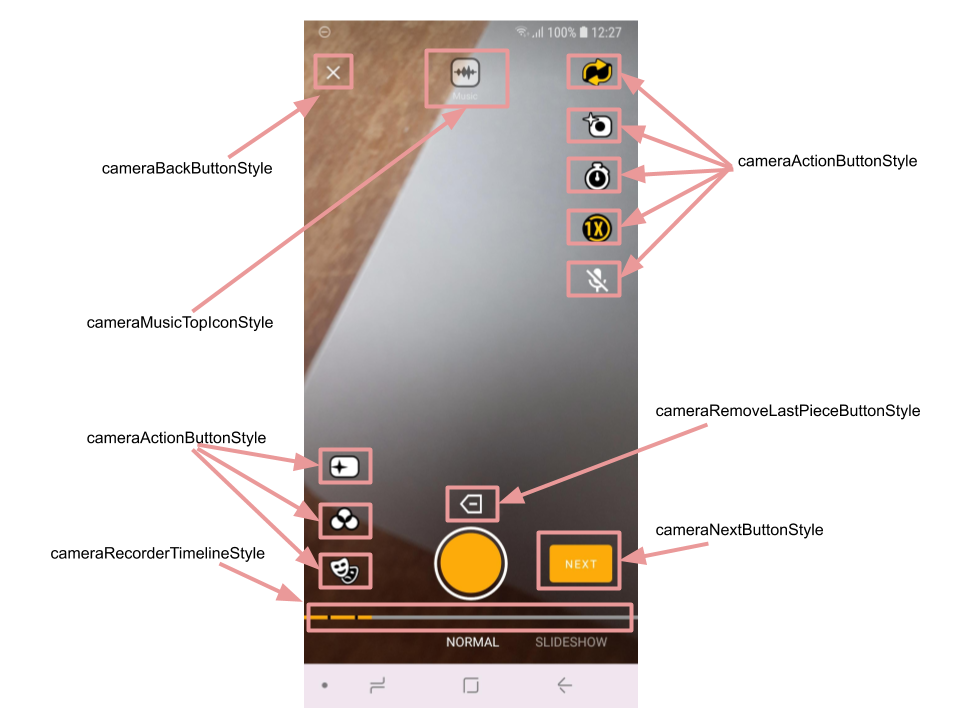
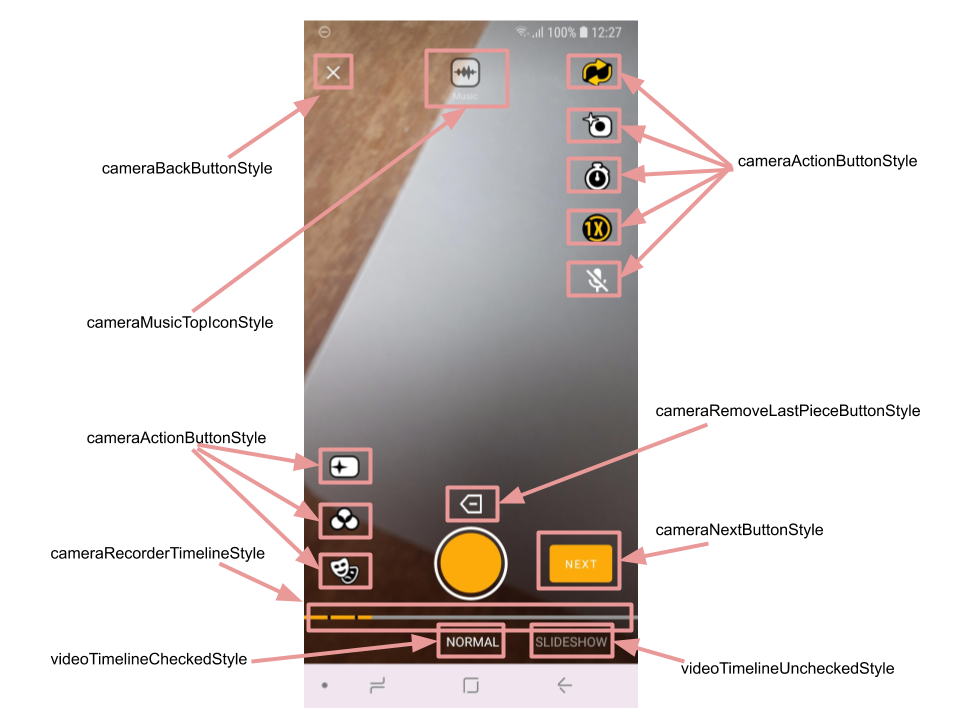
add editor styles description

Changed region(s): [[0.2812, 0.8556, 0.7188, 0.9167], [0.0625, 0.8861, 0.2812, 0.9472], [0.7188, 0.9167, 0.9375, 0.9472]]

diff --git a/camera_styles.md b/camera_styles.md
@@ -1,46 +1,63 @@
 # Banuba VideoEditor SDK
 ## Camera screen styles  
 
-- [cameraOverlayStyle](app/src/main/res/values/themes.xml#L22) 
+- [cameraOverlayStyle](app/src/main/res/values/themes.xml#L24)
 
-    style is intended to setup action button icons, customize relative position and appearance of music, gallery, switch camera icons. [Example](app/src/main/res/values/themes.xml#L199)  
-- [cameraActionButtonStyle](app/src/main/res/values/themes.xml#L23)
+    style is intended to setup action button icons, customize relative position and appearance of music, gallery, switch camera icons  
+- [cameraActionButtonStyle](app/src/main/res/values/themes.xml#L25)
 
-    style defines action buttons appearance. [Example](app/src/main/res/values/themes.xml#L269)
-- [cameraMusicTopIconStyle](app/src/main/res/values/themes.xml#L24)
+    style defines action buttons appearance
+- [cameraMusicTopIconStyle](app/src/main/res/values/themes.xml#L26)
 
-    special style that defines appearance of music icon in case it is placed on the top of the camera screen (if the music icon is placed on the left side the cameraActionButtonStyle is applied to it, so this attribute can be omitted). [Example](app/src/main/res/values/themes.xml#L266)
-- [cameraBackButtonStyle](app/src/main/res/values/themes.xml#L25)
+    special style that defines appearance of music icon in case it is placed on the top of the camera screen (if the music icon is placed on the left side the cameraActionButtonStyle is applied to it, so this attribute can be omitted)
+- [cameraBackButtonStyle](app/src/main/res/values/themes.xml#L27)
 
-    style defines "back" button appearance. [Example](app/src/main/res/values/themes.xml#L272)
-- [cameraNextButtonStyle](app/src/main/res/values/themes.xml#L26)
+    style defines "back" button appearance
+- [cameraNextButtonStyle](app/src/main/res/values/themes.xml#L28)
 
-    style defines "next" button appearance. [Example](app/src/main/res/values/themes.xml#L278)
-- [cameraRemoveLastPieceButtonStyle](app/src/main/res/values/themes.xml#L27)
+    style defines "next" button appearance
+- [cameraRemoveLastPieceButtonStyle](app/src/main/res/values/themes.xml#L29)
 
-    style defines an appearance for the button that is used to delete the last recorded video chunk from the timeline. [Example](app/src/main/res/values/themes.xml#L312)
-- [cameraRecorderTimelineStyle](app/src/main/res/values/themes.xml#L29)
+    style defines an appearance for the button that is used to delete the last recorded video chunk from the timeline
+- [cameraRecorderTimelineStyle](app/src/main/res/values/themes.xml#L31)
 
-    style is intented to customize the timeline. [Example](app/src/main/res/values/themes.xml#L315)
+    style is intented to customize the timeline
+
+- [videoTimelineCheckedStyle](app/src/main/res/values/themes.xml#L18)
+
+    style for the selected bottom tab of video creation mode
+
+- [videoTimelineUncheckedStyle](app/src/main/res/values/themes.xml#L19)
+
+    style for the unselected bottom tab of video creation mode
 
     ![img](screenshots/camera1.png)
-- [cameraEffectsLabelStyle](app/src/main/res/values/themes.xml#L30)
+- [cameraEffectsLabelStyle](app/src/main/res/values/themes.xml#L32)
 
-    style for visual effects (color filters and AR masks) list label. By default the label is not visible so this style can be omitted. [Example](app/src/main/res/values/themes.xml#L284)
-- [cameraEffectsItemStyle](app/src/main/res/values/themes.xml#L31)
+    style for visual effects (color filters and AR masks) list label. By default the label is not visible so this style can be omitted
+- [cameraEffectsItemStyle](app/src/main/res/values/themes.xml#L33)
 
-    style applied for every item within visual effects list. [Example](app/src/main/res/values/themes.xml#L287)
-- [cameraEffectsRecyclerStyle](app/src/main/res/values/themes.xml#L32)
+    style applied for every item within visual effects list
+- [cameraEffectsRecyclerStyle](app/src/main/res/values/themes.xml#L34)
 
-    style applied for RecyclerView containing visual effects list. [Example](app/src/main/res/values/themes.xml#L290)
-- [cameraSpeedPickerLabelStyle](app/src/main/res/values/themes.xml#L33)
+    style applied for RecyclerView containing visual effects list
+- [cameraSpeedPickerLabelStyle](app/src/main/res/values/themes.xml#L35)
 
-    style is applied to the recording speed options label. By default the label is not visible so this style can be omitted. [Example](app/src/main/res/values/themes.xml#L293)
-- [cameraSpeedPickerViewStyle](app/src/main/res/values/themes.xml#L34)
+    style is applied to the recording speed options label. By default the label is not visible so this style can be omitted
+- [cameraSpeedPickerViewStyle](app/src/main/res/values/themes.xml#L36)
 
-    style is applied to custom recording speed options container. [Example](app/src/main/res/values/themes.xml#L296)
-- [cameraSpeedPickerItemStyle](app/src/main/res/values/themes.xml#L35)
+    style is applied to custom recording speed options container
+- [cameraSpeedPickerItemStyle](app/src/main/res/values/themes.xml#L37)
 
-    style is applied to TextView representing every recording speed option within container. [Example](app/src/main/res/values/themes.xml#L302)
+    style is applied to TextView representing every recording speed option within container
+
+- [checkableEffectTitleStyle](app/src/main/res/values/themes.xml#L39)
+
+    style is used to set text appearance for "checkable" effects (applied/removed by selection) title. This type of effects includes: 
+    - color filters on camera screen
+    - AR masks on camera screen
+    - color filters on editor screen
+    
+    The other effects type - "actionable" - defined in [editor styles](editor_styles.md#L57)
 
     ![img](screenshots/camera2.png)

diff --git a/editor_styles.md b/editor_styles.md
@@ -1,0 +1,88 @@
+# Banuba VideoEditor SDK
+## Editor screen styles
+
+- [editorOverlayStyle](app/src/main/res/values/themes.xml#L60)
+
+    style defines back icon drawable, playback icon visibility, several editor screen appearance parameters, also setups icons used for voice recording (they can be omitted if music editor feature is enabled)
+- [editorActionsStyle](app/src/main/res/values/themes.xml#L61)
+
+    style setups drawables for all action buttons on the editor screen
+- [editorActionButtonStyle](app/src/main/res/values/themes.xml#L62)
+
+    style defines how action buttons look like (size, description, margins, etc.). It is applied for every action button on the editor screen
+- [editorBackButtonStyle](app/src/main/res/values/themes.xml#L63)
+
+    style for the button that is used to return the user on the previous screen
+- [editorNextButtonStyle](app/src/main/res/values/themes.xml#L64)
+
+    style for the button that is used to proceed with current video
+
+    ![img](screenshots/editor1.png)
+- [editorTextActionsStyle](app/src/main/res/values/themes.xml#L65)
+
+    style setups drawables for text editor options (alignment, background)
+- [editorTextColorLabelStyle](app/src/main/res/values/themes.xml#L66)
+
+    style for appearance of text label for colors applicable in text editor
+- [editorTextEditorInputStyle](app/src/main/res/values/themes.xml#L68)
+
+    style for the view used in text editor to create text effect. It should be mentioned that background color, typeface and text color are customized by the user while creating text effect, so you should avoid to setup these attributes in this style. Also input view allows autosizing
+- [editorTypefaceSwitcherStyle](app/src/main/res/values/themes.xml#L69)
+
+    style for the view that is used to switch typeface in text editor 
+- [editorTextDoneStyle](app/src/main/res/values/themes.xml#L72)
+
+    style for the button on the text editor that applies created text effect to the video. It can be the same as editorDoneStyle if you do not need to make them different
+
+    ![img](screenshots/editor2.png)
+- [editorCancelStyle](app/src/main/res/values/themes.xml#L70)
+
+    style for the button that is used in case of editing visual, time and color effects to cancel the last added effect or return from editing effect to editor screen
+- [editorDoneStyle](app/src/main/res/values/themes.xml#L71)
+
+    style for the button that is used in case of editing visual, time and color effects to apply effects to the video. It should be mentioned that the same button for the text effects is defined by editorTextDoneStyle
+- [editorUndoButtonStyle](app/src/main/res/values/themes.xml#L74)
+
+    style for the button that is used to remove the last added effect on visual or time effects editor
+- [editorVisualAndTimeEffectsRecyclerStyle](app/src/main/res/values/themes.xml#L75)
+
+    style for the RecyclerView containing visual or time effects
+- [editorApplyEffectHintStyle](app/src/main/res/values/themes.xml#L78)
+
+    style for the TextView that shows a hint on visual/time effects editor
+- [editorTimelineStyle](app/src/main/res/values/themes.xml#L86)
+
+    style for the timeline that represents effects applied on the video in case of editing visual or time effects
+
+- [actionableEffectTitleStyle](app/src/main/res/values/themes.xml#L38)
+
+    style is used to set text appearance for "actionable" effects (applied by long pressing) title. This type of effects includes: 
+    - visual effects on editor screen
+    - time effects on editor screen
+    - AR masks on editor screen
+    
+    The other effects type - "checkable" - defined in [camera styles](camera_styles.md#L54)
+
+- [editorEffectVisualStyle](app/src/main/res/values/themes.xml#L79)
+
+    style for the every item in the visual effects list
+
+    ![img](screenshots/editor3.png)
+- [editorEffectTimeStyle](app/src/main/res/values/themes.xml#L80)
+
+    style for the every item in the time effects list
+- [editorEffectMaskStyle](app/src/main/res/values/themes.xml#L81)
+
+    style for the every item in the AR mask effects list
+- [editorEffectLutItemStyle](app/src/main/res/values/themes.xml#L82)
+
+    style for the every item in the color filters list
+- [editorColorEffectsLabelStyle](app/src/main/res/values/themes.xml#L83)
+
+    style for the color filter list label. By default the label is not visible so this style can be omitted. This style is similar to [cameraEffectsLabelStyle](camera_styles.md#L35) for camera screen
+- [editorColorEffectsRecyclerStyle](app/src/main/res/values/themes.xml#L84)
+
+    style applied for RecyclerView containing color filters. This style is similar to [cameraEffectsRecyclerStyle](camera_styles.md#L41) for camera screen
+- [editorBoardStyle](app/src/main/res/values/themes.xml#L73)
+
+    style for the custom view that holds all visual effects on the editor screen. This view handles different touch actions (drag, zoom in or out) on effects. It has a bulk of custom attributes that setup its appearance depends on user action

diff --git a/README.md b/README.md
@@ -130,6 +130,7 @@ In progress...
 The SDK allows to override icons, colors, typefaces and many more using Android theme and styles. Every SDK screen has its own set of styles.  
 Below you can find how to customize VE SDK to bring your experience.
 1. [Camera screen](camera_styles.md)
+1. [Editor screen](editor_styles.md)
 
 
 
